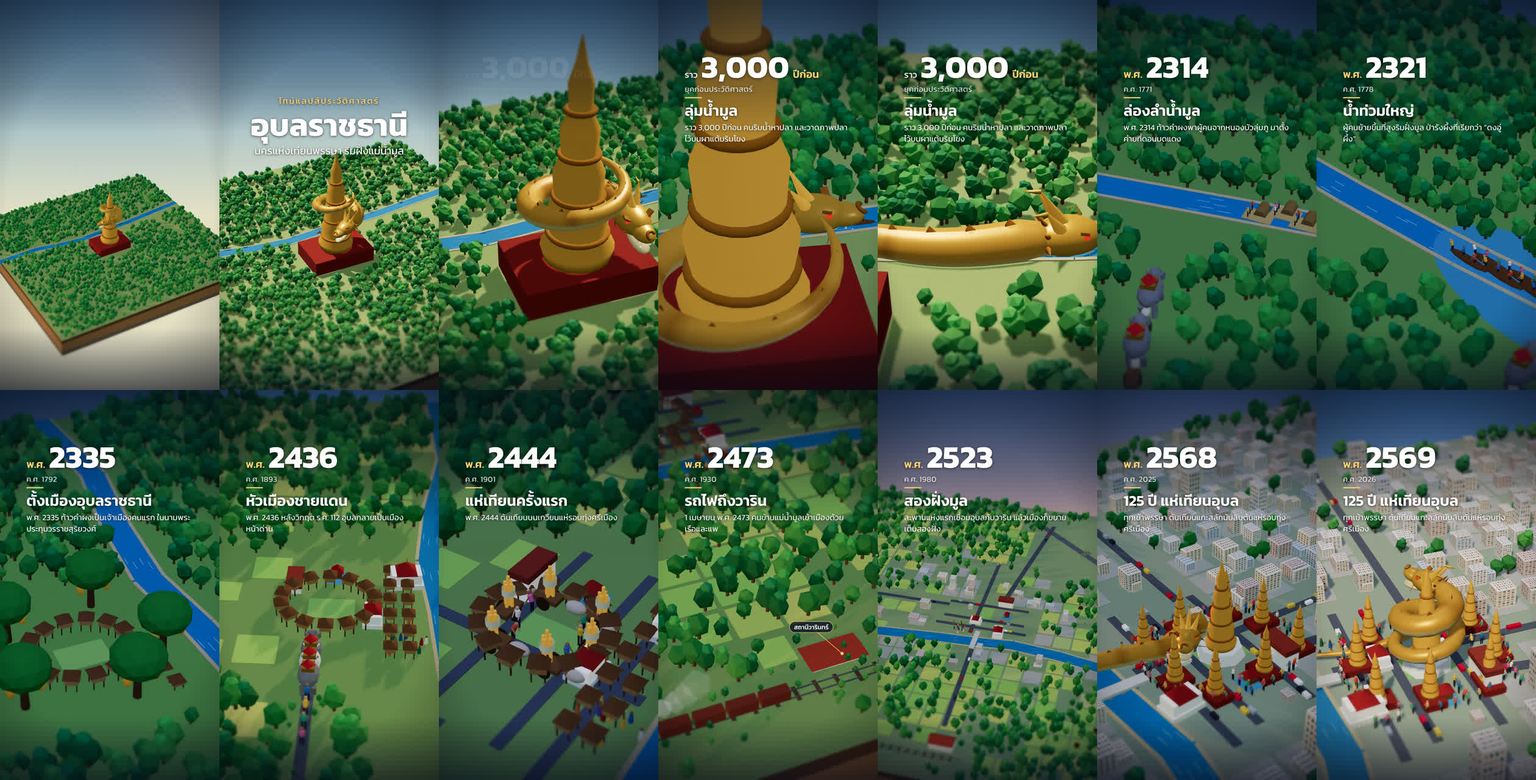
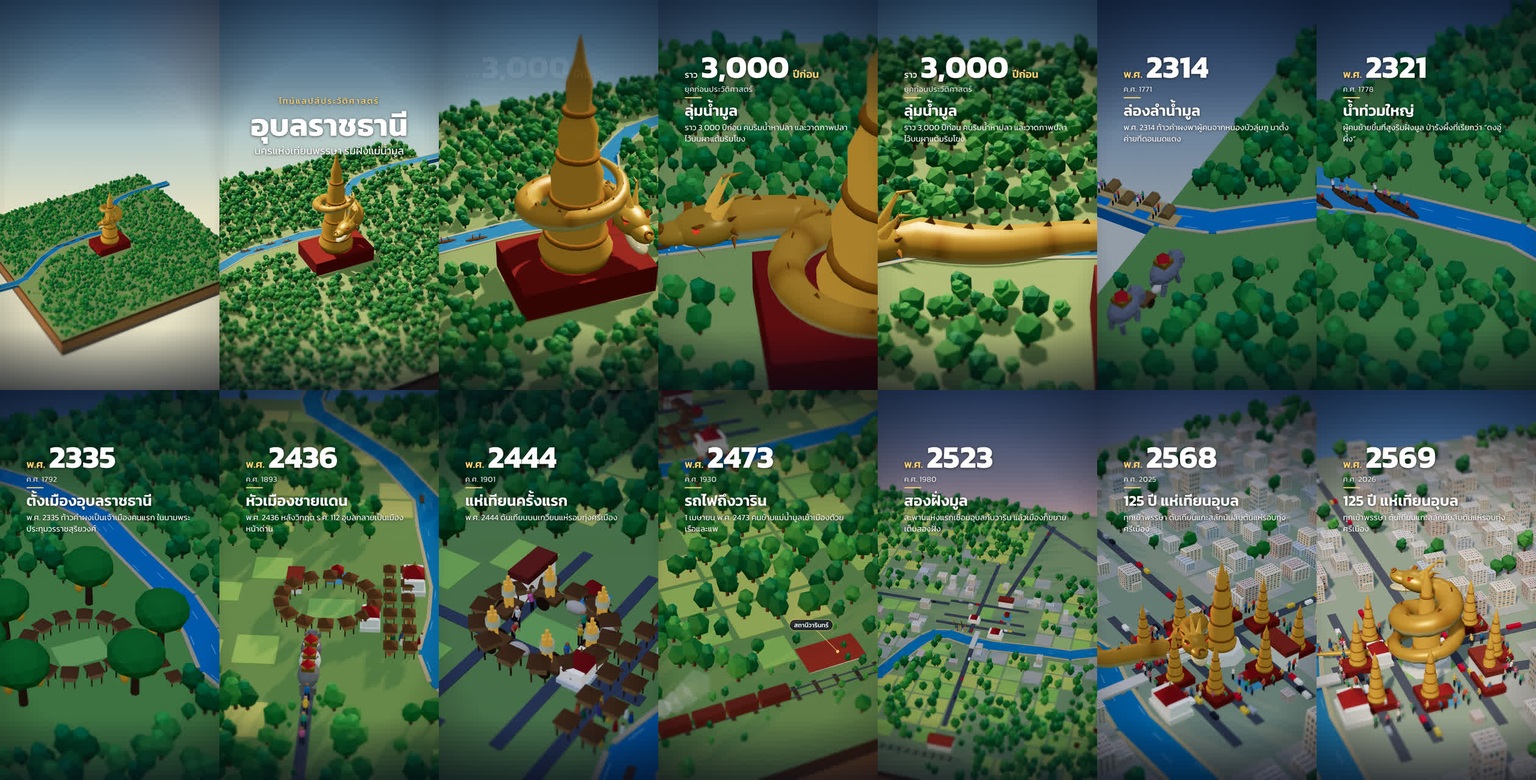
Ubon: the Mun on its OSM centreline, ดอนมดแดง downstream to the east, pins to OSM
From the workstation's check on PR #63:
- MUN is the OSM centreline (r2665616 / r392517) resampled to model units:
  south-bending west of town, north-east toward Khong Chiam east of it.
- ดอนมดแดง is ~21 km downstream (15.2904, 105.0524; a real island on Esri
  imagery), so it moves to the east edge on the river and the founders
  arrive from the east: rafts up the Mun, elephants and carts from the
  north-east. After the flood the boats go up the Mun to ดงอู่ผึ้ง.
- The cover's naga now swims downstream (east), toward where the founders
  will come from; the fishers and the cameras follow.
- Pins moved to OSM: the pillar, Wat Si Ubon, Wat Luang (kept 0.4 off the
  water), the station and the airfield. ผาแต้ม and โขงเจียม are named in a
  caption but not drawn, so they no longer carry a pin.

npm run check: 0 errors; jerk 639; soundtrack -16.0 LUFS.

diff --git a/src/cities/ubon/places.ts b/src/cities/ubon/places.ts
@@ -7,16 +7,17 @@ type P = [number, number];
 // ---- the town on the north bank
 export const THUNG: P = [0, 0]; // ทุ่งศรีเมือง, ~340 x 220 m = 4.3 x 2.8 units
 export const THUNG_HALF: P = [1.4, 2.1]; // half-extents, x then z
-export const PILLAR: P = [0.5, 2.3]; // ศาลหลักเมือง (2515-19)
+export const PILLAR: P = [0.6, 2.6]; // ศาลหลักเมือง (2515-19)
 export const WAT_THUNG: P = [4.7, 0.3]; // วัดทุ่งศรีเมือง, หอไตรกลางน้ำ (~2384)
-export const WAT_SI_UBON: P = [-1.5, 3.7]; // วัดศรีอุบลรัตนาราม (2398)
-export const WAT_LUANG: P = [4.2, 6.7]; // วัดหลวง, the town's first temple, on the bank
+export const WAT_SI_UBON: P = [-1.9, 3.5]; // วัดศรีอุบลรัตนาราม (2398)
+export const WAT_LUANG: P = [3.8, 7.4]; // วัดหลวง, the town's first temple, on the bank (OSM [3.8, 7.8], kept off the water)
 // the old core: ~1.7 km along the river by ~1 km inland
 export const OLD_TOWN: P[] = [[-9, -4], [9, -4], [10, 6.8], [-10, 8.6]];
 
-// ---- แม่น้ำมูล: ~190 m of water at the bridge (2.4 units), drawn 3 wide. It flows west to east
-// past the town; the bridge pin (the deck's middle) puts the channel's centre at z ~ 10 there.
-export const MUN: P[] = [[-48, 15], [-34, 13.4], [-20, 11.6], [-8, 10.6], [0, 10.2], [8, 9.4], [18, 10.4], [30, 12.6], [48, 12]];
+// ---- แม่น้ำมูล: ~190 m of water at the bridge (2.4 units), drawn 3 wide. The OSM centreline
+// (riverbank r2665616, centreline r392517; the workstation's check on PR #63), resampled to model
+// units: west of town it bends south, east of town it runs north-east toward Khong Chiam.
+export const MUN: P[] = [[-56, 33.9], [-34.2, 33.8], [-28.1, 32.5], [-23.1, 30.9], [-20.4, 28.7], [-16.2, 24.7], [-12.2, 14.9], [-10.6, 11.8], [-8.9, 9.8], [-5.7, 9.1], [-1.3, 10.1], [3.6, 10.6], [14.2, 9.7], [20.2, 9.5], [25.6, 7.2], [30, 5.3], [43.6, -4.6], [47.8, -5.5], [56, -4.8]];
 export const MUN_W = 3;
 export const munZ = (x: number) => {
   for (let i = 0; i < MUN.length - 1; i++) {
@@ -29,25 +30,23 @@ export const munZ = (x: number) => {
 
 // ---- crossings and the south bank
 export const BRIDGE_X = 0; // สะพานเสรีประชาธิปไตย (2497), the deck's middle at [0, 10.4]
-export const WARIN_STATION: P = [1.9, 41.1]; // สถานีวารินทร์ (1 เม.ย. 2473)
+export const WARIN_STATION: P = [1.7, 40.8]; // สถานีวารินทร์ (1 เม.ย. 2473)
 export const RAIL_Z = 42.4; // the line from Si Sa Ket runs in from the west to the station
 export const FERRY_X = 3.2; // ท่าหาดสวนยา (Warin) - ท่าจวน (Ubon): the boats before the bridge
 
 // ---- north of town
-export const AIRFIELD: P = [17.4, -29.1]; // กองบิน 21: runway 05/23, 3,000 m (37.5 units)
+export const AIRFIELD: P = [16.6, -31.0]; // กองบิน 21: runway 05/23, 3,000 m (37.5 units)
 export const RUNWAY_ROT = (50 * Math.PI) / 180; // bearing 050
 
-// ---- the founders' first camps, upstream to the north-west
-// ดอนมดแดง: an island in the Mun upstream (provisional: its pin is the workstation's to find)
-export const DON_MOT_DAENG: P = [-30, 12.9];
+// ---- the founders' first camp, downstream to the east
+// ดอนมดแดง: a forested island in the Mun ~21 km downstream (15.2904, 105.0524; the workstation's
+// satellite check on PR #63), pulled in to the east edge on the river. The people came down the
+// Mekong and up the Mun, so they arrive from the east.
+export const DON_MOT_DAENG: P = [41, -2.6];
 // บ้านท่าบ่อ / ห้วยแจระแม, the high ground after the flood: [-44.9, -34.4] true, pulled in
 export const THA_BO: P = [-34, -26];
 // ดงอู่ผึ้ง: the bee forest on the high north bank where the town was cleared
 export const DONG_U_PHUENG: P = [0, 0];
-
-// ---- far places (geo only)
-export const PHA_TAEM: P = [46, -11]; // 71 km at 077 -> pulled to the east edge
-export const KHONG_CHIAM: P = [46, -6]; // ปากมูล, the two-colour river, 68 km at 082
 
 // the opening: the giant candle stands where ทุ่งศรีเมือง will be
 export const CANDLE_AT: P = [0, -2];

diff --git a/src/cities/ubon/actors.ts b/src/cities/ubon/actors.ts
@@ -47,7 +47,8 @@ const coil = (c: Coil, u: number, up = false): V3 => {
   return [c.cx + Math.cos(a) * r, c.top - (c.top - c.bottom) * kk, c.cz + Math.sin(a) * r];
 };
 
-// the cover: spire to foot, then across the bank to the river, then upstream (west) on the Mun.
+// the cover: spire to foot, then across the bank to the river, then downstream (east) on the Mun,
+// toward where the founders will come from.
 // At frame 0 (k = OPEN_K0) the head is on the north-east side, facing the camera, with the body
 // wound up toward the spire; the coil ends on the south-east side, toward the river.
 const OPEN_K0 = 0.35;
@@ -71,7 +72,7 @@ const openingPath = (u: number): V3 => {
     return [OPEN_BANK[0], lerp(COVER.bottom, WATER_Y + NAGA_R * 0.55, Math.sqrt(k)), lerp(OPEN_BANK[1], OPEN_ENTRY[1], k)];
   }
   const w = v - OPEN_TO_RIVER;
-  const x = OPEN_ENTRY[0] - w;
+  const x = OPEN_ENTRY[0] + w;
   return [x, WATER_Y + NAGA_R * 0.55, munZ(x) + Math.sin(w * 0.35) * 0.6];
 };
 // head position along the path: it uncoils fast, crosses the bank, then swims slowly upstream
@@ -129,13 +130,13 @@ export const nagaReturn = (t: number, Y: number): V3[] | null => {
 // ------------------------------------------------------------------ the first people
 // ~3,000 years ago: fishers in dugouts on the Mun, the naga swimming past them
 export const fisherAt = (i: number, t: number) => {
-  const x = -2 - i * 4 + Math.sin(t * 0.4 + i) * 0.8;
+  const x = 8 + i * 4 + Math.sin(t * 0.4 + i) * 0.8;
   return {x, z: munZ(x) + (i % 2 ? 0.6 : -0.5), rot: i % 2 ? Math.PI / 2 : -Math.PI / 2};
 };
 
 // ------------------------------------------------------------------ 2314: the migration
-// carts and elephants down from the north to the island camp; rafts down the Mun from the west
-export const CARAVAN: P[] = [[-35, -9], [-32.5, -2], [-30, DON_MOT_DAENG[1] - 3.2]];
+// carts and elephants down from the north-east to the island camp; rafts up the Mun from the east
+export const CARAVAN: P[] = [[45, -20], [43.5, -12], [41.5, DON_MOT_DAENG[1] - 3.4]];
 const CARAVAN_LEN = lengthOf(CARAVAN);
 export const caravanAt = (i: number, {beat}: ActorCtx) => {
   const p = beat('migration');
@@ -147,7 +148,7 @@ export const caravanAt = (i: number, {beat}: ActorCtx) => {
 export const raftAt = (i: number, {beat}: ActorCtx) => {
   const p = beat('migration');
   if (p <= 0) return null;
-  const x = lerp(-39 - i * 2.6, DON_MOT_DAENG[0] - 1.6 - i * 1.4, smooth(ramp(p, 0.05, 0.8)));
+  const x = lerp(52 + i * 2.6, DON_MOT_DAENG[0] + 1.6 + i * 1.4, smooth(ramp(p, 0.05, 0.8)));
   return {x, z: munZ(x) + (i % 2 ? 0.5 : -0.4)};
 };
 // the camp's huts go up on the island
@@ -158,11 +159,11 @@ export const floodK = ({beat}: Pick<ActorCtx, 'beat'>) => {
   const p = beat('flood');
   return smooth(ramp(p, 0.02, 0.35)) * (1 - smooth(ramp(p, 0.75, 1)));
 };
-// the boats leave the drowned camp for the high north bank at ดงอู่ผึ้ง
+// the boats leave the drowned camp and go up the Mun to the high north bank at ดงอู่ผึ้ง
 export const exodusAt = (i: number, {beat}: ActorCtx) => {
   const p = beat('flood');
   if (p <= 0.12 || p >= 1) return null;
-  const x = lerp(DON_MOT_DAENG[0] + 2 - i * 1.6, -4 - i * 1.4, smooth(ramp(p, 0.15, 0.95)));
+  const x = lerp(DON_MOT_DAENG[0] - 2 + i * 1.6, 6 + i * 1.4, smooth(ramp(p, 0.15, 0.95)));
   return {x, z: munZ(x) - 0.4 + (i % 2) * 0.7};
 };
 
@@ -251,7 +252,7 @@ export const ACTORS: Actor[] = [
   {id: 'fishers', during: [beatAt('naga', 0.45), beatAt('naga', 1)], size: 1.6, at: (t, ctx) => {
     const n = nagaOpening(t);
     if (ctx.Y >= 0 || !n) return null;
-    const hx = Math.min(n[0][0], 0);
+    const hx = Math.max(n[0][0], 6);
     let best = fisherAt(0, t);
     for (let i = 1; i < 4; i++) {
       const f = fisherAt(i, t);

diff --git a/src/cities/ubon/Landmarks.tsx b/src/cities/ubon/Landmarks.tsx
@@ -161,21 +161,20 @@ export const UbonLandmarks: React.FC<LandmarkProps> = ({Y, t, night, terrainH, b
 
       {/* 2314: the island camp, the rafts, the caravan */}
       {Y > 1700 && Y < 1800 && (
-        <mesh position={[DON_MOT_DAENG[0], 0.04, DON_MOT_DAENG[1]]} rotation-x={-Math.PI / 2} scale={[4.2, 1.5, 1]}>
-          <circleGeometry args={[1, 32]} />
-          <meshStandardMaterial color="#d8c08a" />
-        </mesh>
+        // the island lies along the Mun, which runs north-east here
+        <group position={[DON_MOT_DAENG[0], 0, DON_MOT_DAENG[1]]} rotation-y={0.63}>
+          <mesh position={[0, 0.04, 0]} rotation-x={-Math.PI / 2} scale={[4.2, 1.3, 1]}>
+            <circleGeometry args={[1, 32]} />
+            <meshStandardMaterial color="#d8c08a" />
+          </mesh>
+          {Y < 1795 &&
+            Array.from({length: 6}, (_, i) => (
+              <group key={i} position={[-2.5 + i, 0.05, i % 2 ? 0.35 : -0.35]} scale={0.8}>
+                <StiltHouse k={campK(i, ctx)} />
+              </group>
+            ))}
+        </group>
       )}
-      {Y > 1700 &&
-        Y < 1795 &&
-        Array.from({length: 6}, (_, i) => {
-          const k = campK(i, ctx);
-          return (
-            <group key={i} position={[DON_MOT_DAENG[0] - 2.5 + i, 0.05, DON_MOT_DAENG[1] + (i % 2 ? 0.4 : -0.4)]} scale={0.8}>
-              <StiltHouse k={k} />
-            </group>
-          );
-        })}
       {Array.from({length: 4}, (_, i) => {
         const r = raftAt(i, ctx);
         return r && Y < 1790 ? (
@@ -202,7 +201,7 @@ export const UbonLandmarks: React.FC<LandmarkProps> = ({Y, t, night, terrainH, b
 
       {/* the flood over the camp, and the boats leaving it */}
       {flood > 0.01 && (
-        <mesh position={[DON_MOT_DAENG[0] + 2, 0.12, DON_MOT_DAENG[1] - 0.5]} rotation-x={-Math.PI / 2} scale={[9 * flood + 2, 4 * flood + 1, 1]}>
+        <mesh position={[DON_MOT_DAENG[0], 0.12, DON_MOT_DAENG[1]]} rotation={[-Math.PI / 2, 0, 0.63]} scale={[9 * flood + 2, 4 * flood + 1, 1]}>
           <circleGeometry args={[1, 40]} />
           <meshStandardMaterial color={RIVER} transparent opacity={0.92} roughness={0.2} />
         </mesh>
@@ -255,7 +254,7 @@ export const UbonLandmarks: React.FC<LandmarkProps> = ({Y, t, night, terrainH, b
           );
         })}
       {town && (
-        <group position={[WAT_LUANG[0], terrainH(WAT_LUANG[0], WAT_LUANG[1]), WAT_LUANG[1]]} rotation-y={0.1}>
+        <group position={[WAT_LUANG[0], terrainH(WAT_LUANG[0], WAT_LUANG[1]), WAT_LUANG[1]]} rotation-y={Math.PI / 2}>
           <Sim k={watLuangK(ctx)} night={night} />
         </group>
       )}

diff --git a/src/cities/ubon/geo.ts b/src/cities/ubon/geo.ts
@@ -1,12 +1,13 @@
 import type {Geo} from '../../engine/geo';
-import {AIRFIELD, KHONG_CHIAM, PHA_TAEM, PILLAR, THA_BO, WARIN_STATION, WAT_LUANG, WAT_SI_UBON, WAT_THUNG} from './places';
+import {AIRFIELD, DON_MOT_DAENG, PILLAR, THA_BO, WARIN_STATION, WAT_LUANG, WAT_SI_UBON, WAT_THUNG} from './places';
 
 // Pins from the Gemini research (docs/briefs/ubon_research_gemini.md §4), converted with
-// scripts/geo.mjs; to be checked on OSM by the workstation (docs/briefs/ubon.md §7).
+// scripts/geo.mjs, checked on OSM by the workstation (PR #63). ผาแต้ม and โขงเจียม are named in a
+// caption but not drawn, so they carry no pin here.
 export const GEO: Geo = {
   points: [
     {name: 'Thung Si Mueang (centre)', lat: 15.230222, lon: 104.857306, at: [0, 0], centre: true, source: 'Wikipedia 15°13′48.8″N 104°51′26.3″E'},
-    {name: 'Ubon city pillar shrine', lat: 15.228581, lon: 104.857683, at: PILLAR, source: 'm-culture'},
+    {name: 'Ubon city pillar shrine', lat: 15.228581, lon: 104.857683, at: PILLAR, source: 'm-culture; OSM way 739078963'},
     {name: 'Wat Thung Si Mueang', lat: 15.23, lon: 104.860833, at: WAT_THUNG, source: 'm-culture'},
     {name: 'Wat Si Ubon Rattanaram', lat: 15.227569, lon: 104.856192, at: WAT_SI_UBON, source: 'm-culture'},
     {name: 'Wat Luang', lat: 15.225346, lon: 104.860424, at: WAT_LUANG, source: 'DOPA / m-culture'},
@@ -14,7 +15,6 @@ export const GEO: Geo = {
     {name: 'Ubon Ratchathani station (Warin)', lat: 15.2005, lon: 104.8587, at: WARIN_STATION, source: 'Wikipedia 15°12′02″N 104°51′31″E'},
     {name: 'Ubon air base / airport', lat: 15.251278, lon: 104.870231, at: AIRFIELD, source: 'Wikipedia'},
     {name: 'Ban Tha Bo (Huai Chae Ramae)', lat: 15.255142, lon: 104.823857, at: THA_BO, source: 'DOPA (Wat Ban Tha Bo), pulled in x0.75'},
-    {name: 'Pha Taem paintings', lat: 15.383333, lon: 105.525, at: PHA_TAEM, far: true, source: 'Silpakorn rock-art database'},
-    {name: 'Mun-Mekong confluence, Khong Chiam', lat: 15.318161, lon: 105.500944, at: KHONG_CHIAM, far: true, source: 'm-culture'},
+    {name: 'Don Mot Daeng island', lat: 15.2904, lon: 105.0524, at: DON_MOT_DAENG, far: true, source: 'lovethailand; Esri imagery (workstation, PR #63)'},
   ],
 };

diff --git a/src/cities/ubon/timeline.ts b/src/cities/ubon/timeline.ts
@@ -8,11 +8,11 @@ import {between, type CameraKey} from '../../engine/glide';
 import {CANDLE_AT, DON_MOT_DAENG, munZ, THUNG, WARIN_STATION, WAT_LUANG} from './places';
 
 type Key = CameraKey;
-const NAGA_END: Key = [7.8, -15, 1, 11.5, 54, 185, 36, 30];
-const MIG_IN: Key = [9.4, DON_MOT_DAENG[0] - 3, 1, DON_MOT_DAENG[1] - 5, 60, 200, 40, 30];
-const MIG_END: Key = [14.0, DON_MOT_DAENG[0], 1, DON_MOT_DAENG[1] - 3, 56, 214, 38, 30];
-const FLOOD_IN: Key = [15.2, DON_MOT_DAENG[0] + 6, 1, DON_MOT_DAENG[1] - 1, 56, 220, 40, 30];
-const FLOOD_END: Key = [19.4, -8, 1, 7, 58, 232, 40, 30];
+const NAGA_END: Key = [7.8, 17, 1, munZ(17), 54, 185, 36, 30];
+const MIG_IN: Key = [9.4, DON_MOT_DAENG[0] + 2, 1, DON_MOT_DAENG[1] - 5, 60, 200, 40, 30];
+const MIG_END: Key = [14.0, DON_MOT_DAENG[0], 1, DON_MOT_DAENG[1] - 2, 56, 214, 38, 30];
+const FLOOD_IN: Key = [15.2, DON_MOT_DAENG[0] - 5, 1, DON_MOT_DAENG[1] + 2, 58, 220, 40, 30];
+const FLOOD_END: Key = [19.4, 9, 1, 7, 58, 232, 40, 30];
 const TOWN_IN: Key = [20.8, 1, 1, 3, 62, 240, 38, 30];
 const TOWN_END: Key = [26.4, 2, 1, 3, 54, 256, 36, 30];
 const FRONT_IN: Key = [27.8, -6, 1, 0, 64, 266, 40, 30];
@@ -57,7 +57,7 @@ export const STORY = buildStory({
         [0, CANDLE_AT[0], 7, CANDLE_AT[1], 330, 150, 34, 30],
         [2.4, CANDLE_AT[0] + 2, 6, CANDLE_AT[1] + 2, 110, 156, 33, 30],
         [4.4, 3, 2, 4, 64, 166, 40, 30],
-        [6.2, -8, 1, munZ(-8), 56, 175, 36, 30],
+        [6.2, 9, 1, munZ(9), 56, 175, 36, 30],
         NAGA_END,
       ],
     },

diff --git a/src/cities/ubon/index.ts b/src/cities/ubon/index.ts
@@ -67,7 +67,7 @@ export const UBON: CityConfig = {
       [CANDLE_AT[0], CANDLE_AT[1], 10, -1e9],
       [CANDLE_AT[0] + 5, CANDLE_AT[1] + 6, 5, -1e9],
       // the river banks where the fishers and the naga are watched from
-      ...path(MUN.slice(0, 6) as [number, number][], 3.4, -1e9).map(([x, z, r, y]) => [x, z - 2.2, r, y] as [number, number, number, number]),
+      ...path(MUN.slice(10, 18) as [number, number][], 3.4, -1e9).map(([x, z, r, y]) => [x, z - 2.2, r, y] as [number, number, number, number]),
       // the island camp and the cart track down to it from the north
       [DON_MOT_DAENG[0], DON_MOT_DAENG[1] - 3, 5, -1e9],
       ...path(CARAVAN, 2.2, -1e9),
